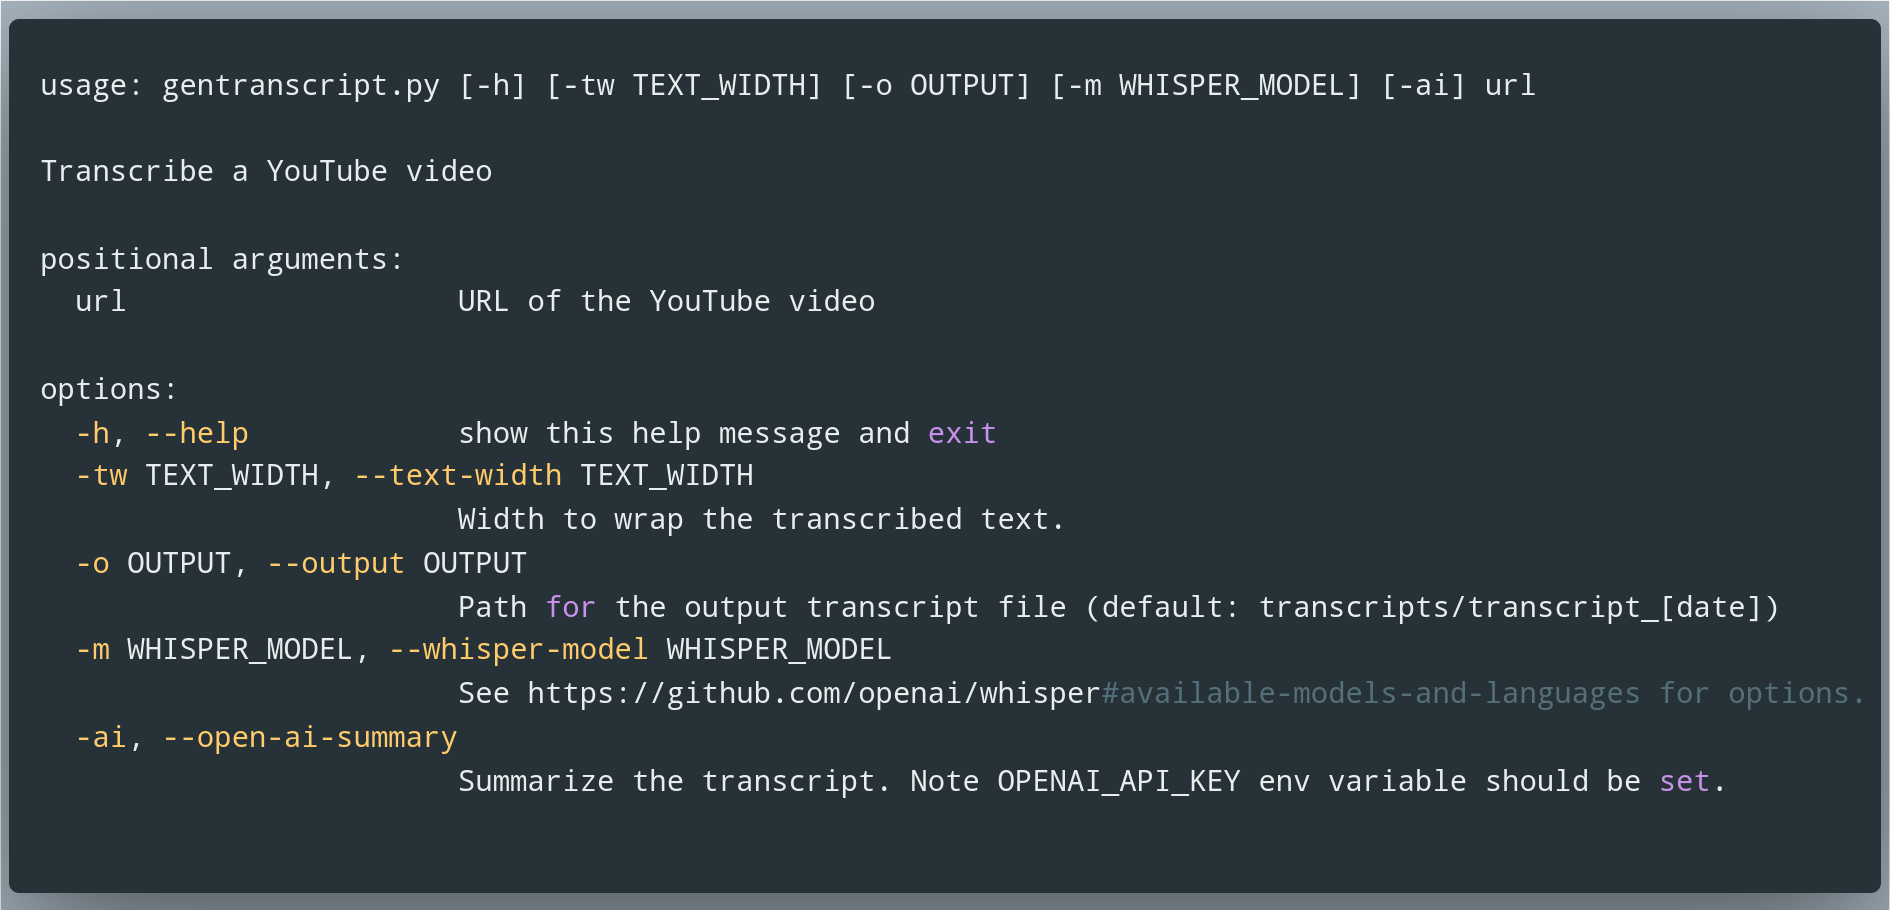
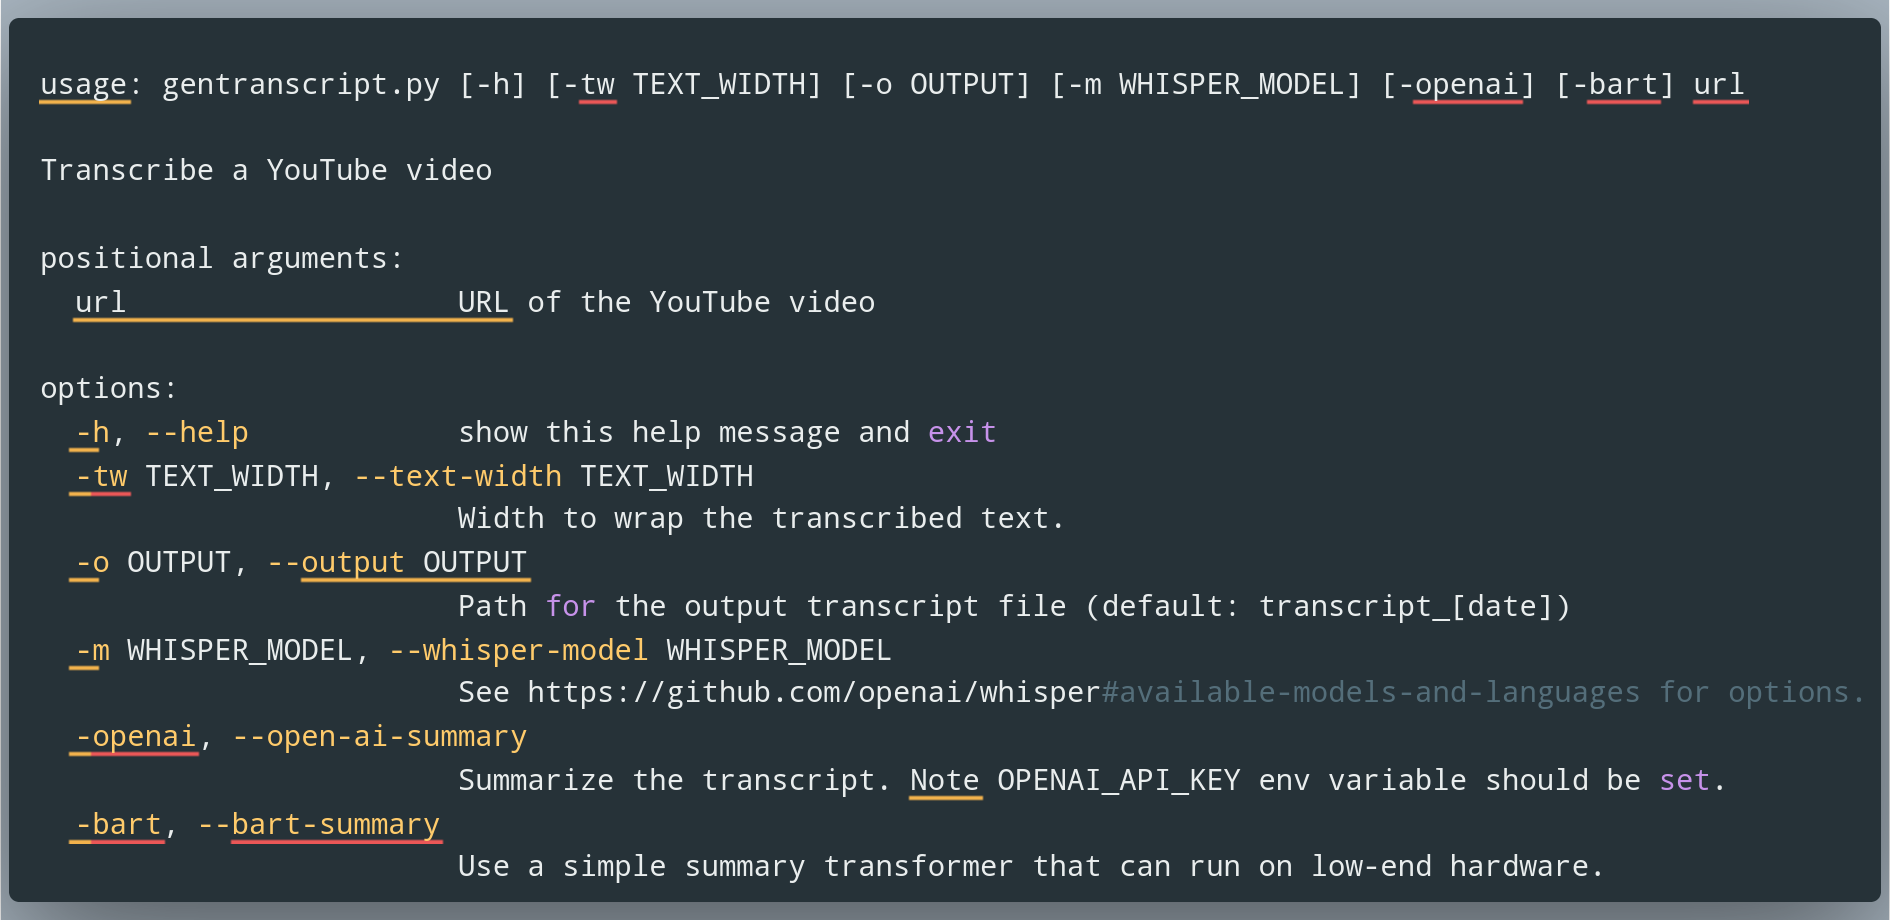
Updates on flags/feature.

diff --git a/README.md b/README.md
@@ -7,7 +7,7 @@
 [![](assets/command-line.png)](https://carbon.now.sh/?bg=rgba%28171%2C+184%2C+195%2C+1%29&t=material&wt=none&l=application%2Fx-sh&width=995&ds=true&dsyoff=20px&dsblur=68px&wc=false&wa=true&pv=9px&ph=4px&ln=false&fl=1&fm=Droid+Sans+Mono&fs=14.5px&lh=150%25&si=false&es=2x&wm=false&code=usage%253A%2520gentranscript.py%2520%255B-h%255D%2520%255B-tw%2520TEXT_WIDTH%255D%2520%255B-o%2520OUTPUT%255D%2520%255B-m%2520WHISPER_MODEL%255D%2520%255B-ai%255D%2520url%250A%250ATranscribe%2520a%2520YouTube%2520video%250A%250Apositional%2520arguments%253A%250A%2520%2520url%2520%2520%2520%2520%2520%2520%2520%2520%2520%2520%2520%2520%2520%2520%2520%2520%2520%2520%2520URL%2520of%2520the%2520YouTube%2520video%250A%250Aoptions%253A%250A%2520%2520-h%252C%2520--help%2520%2520%2520%2520%2520%2520%2520%2520%2520%2520%2520%2520show%2520this%2520help%2520message%2520and%2520exit%250A%2520%2520-tw%2520TEXT_WIDTH%252C%2520--text-width%2520TEXT_WIDTH%250A%2520%2520%2520%2520%2520%2520%2520%2520%2520%2520%2520%2520%2520%2520%2520%2520%2520%2520%2520%2520%2520%2520%2520%2520Width%2520to%2520wrap%2520the%2520transcribed%2520text.%250A%2520%2520-o%2520OUTPUT%252C%2520--output%2520OUTPUT%250A%2520%2520%2520%2520%2520%2520%2520%2520%2520%2520%2520%2520%2520%2520%2520%2520%2520%2520%2520%2520%2520%2520%2520%2520Path%2520for%2520the%2520output%2520transcript%2520file%2520%28default%253A%2520transcripts%252Ftranscript_%255Bdate%255D%29%250A%2520%2520-m%2520WHISPER_MODEL%252C%2520--whisper-model%2520WHISPER_MODEL%250A%2520%2520%2520%2520%2520%2520%2520%2520%2520%2520%2520%2520%2520%2520%2520%2520%2520%2520%2520%2520%2520%2520%2520%2520See%2520https%253A%252F%252Fgithub.com%252Fopenai%252Fwhisper%2523available-models-and-languages%2520for%2520options.%250A%2520%2520-ai%252C%2520--open-ai-summary%250A%2520%2520%2520%2520%2520%2520%2520%2520%2520%2520%2520%2520%2520%2520%2520%2520%2520%2520%2520%2520%2520%2520%2520%2520Summarize%2520the%2520transcript.%2520Note%2520OPENAI_API_KEY%2520env%2520variable%2520should%2520be%2520set.)
 
 ## Intended use cases
-- Filter out what to watch.
+- Filter out what to watch on YouTube.
 - Attach transcripts of YouTube video entries in bib. manager (e.g. Zotero). Make oral communication citable!
 - Use LLM models, such as GPT, to summarize and extract specific information.
 
@@ -16,7 +16,7 @@
 For illustration purposes I'm just picking a video by [Sabine Hossenfelder](https://www.youtube.com/@SabineHossenfelder) explaining bra-ket notation. To get the audio transcript of the video along with a summary from GPT, you would do the following:
 
 ```python
-python gentranscript.py https://www.youtube.com/watch?v=ctXDXABJRtg -ai
+python gentranscript.py "https://www.youtube.com/watch?v=ctXDXABJRtg" -openai
 ```
 
 ![summary example](assets/summary-example.png)
@@ -24,15 +24,16 @@ python gentranscript.py https://www.youtube.com/watch?v=ctXDXABJRtg -ai
 This will also generate `.txt` file with the date in the folder [transcripts](transcripts).
 
 ## Requirements
-See [requirements.txt](requirements.txt).
+See [environment.yml](environment.yml) for `conda` setup or [requirements.txt](requirements.txt).
 
-The OpenAI-whisper package require [ffmpeg](https://ffmpeg.org/) be instaleld on your system.
+The OpenAI-whisper package require [ffmpeg](https://ffmpeg.org/) be installed system wide.
 
 ### Notes
-- You need to specify your `OPENAI_API_KEY` if you plan to use the `-ai` flag.
+- You need to specify your `OPENAI_API_KEY` if you plan to use the `-openai` flag.
 > **Warning**
-> Be mindful of API usage cost!
+>  Be mindful of API usage cost!
 - The function `gpt_summarize_key_points` uses the function `split_text_into_chunks` to break-up large amounts of text which usually would be rejected by a gpt model. However, the current implementation makes many request and thus appears to also get rate limited by the openAI servers.
+- The flag `-bart` will run a reduced-scale summary transformer model that can run on your laptop and without a GPU.
 
 ### Acknowledgements
 I got the idea for this from the video https://www.youtube.com/watch?v=2936_Y80nUk&t=554s by Andy Stapleton.
